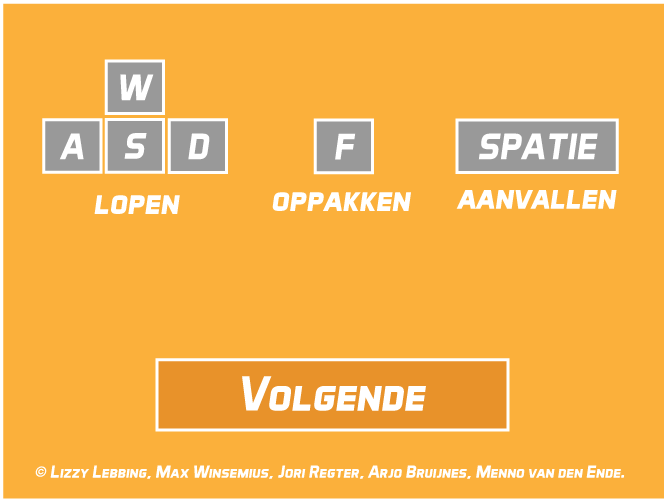
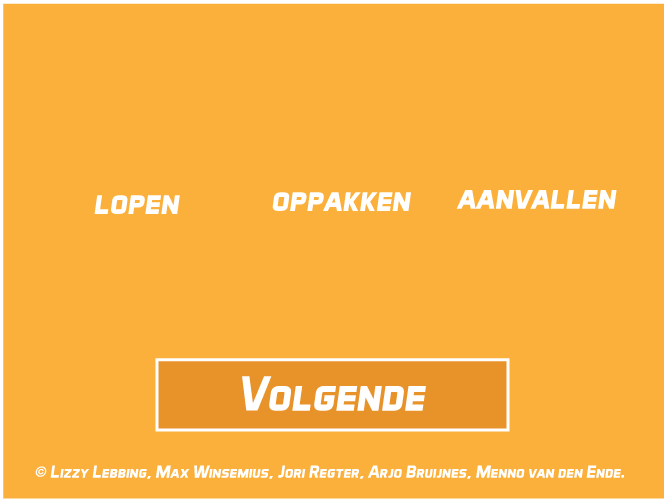
Adding buttons, and removing them from infoscreen

Changed region(s): [[0.06, 0.1198, 0.3598, 0.3593], [0.6597, 0.2096, 0.9295, 0.3593], [0.4498, 0.2096, 0.5697, 0.3593]]

diff --git a/src/Handlers/ContentHandler.cs b/src/Handlers/ContentHandler.cs
@@ -49,6 +49,8 @@ namespace Ratcycle
 			textures.Add ("Button_ChooseLevel-03", null);
 			textures.Add ("Button_ChooseLevel-04", null);
 			textures.Add ("Button_ChooseLevel-05", null);
+			textures.Add ("Button_Square", null);
+			textures.Add ("Button_Wide", null);
 
 			//HUD
 			textures.Add ("Button_Escape", null);
@@ -76,9 +78,6 @@ namespace Ratcycle
 			textures.Add ("monster_StrongPlastic", null); //PLACEHOLDER
 			textures.Add ("monster_NormalOther", null); //PLACEHOLDER
 			textures.Add ("monster_StrongOther", null); //PLACEHOLDER
-
-			//PLACEHOLDERS
-			textures.Add("PCSquareButton", null);
 
 			//FONTS
 			fonts.Add ("Aero Matics Display-14", null);
